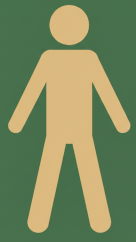
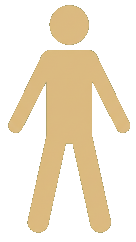
feat: Add hit location visualization system
- Created HitLocationIndicator component with human silhouette
- Made victim-sillhoute.png transparent (removed green background)
- Replaced emoji hit location indicators with visual silhouette
- Shows precise hit location with pulsing red marker
- Enhanced event grouping to merge attack data with kill events
- Kill events now show damage and hit location from preceding attack
- Prominent red marker (18px pulse, 10px dot) with glow effects
- Responsive sizing and hover effects

Display improvements:
- Attack events: Show damage + hit location silhouette
- Kill events: Show damage + hit location from merged attack event
- Complete combat information in one view

diff --git a/rank-forge/rank-forge-ui/src/pages/RoundDetailsPage.tsx b/rank-forge/rank-forge-ui/src/pages/RoundDetailsPage.tsx
@@ -3,6 +3,7 @@ import { useParams, Link } from 'react-router-dom';
 import { PageContainer } from '../components/Layout/PageContainer';
 import { LoadingSpinner } from '../components/Layout/LoadingSpinner';
 import { SpriteIcon } from '../components/UI/SpriteIcon';
+import { HitLocationIndicator } from '../components/UI/HitLocationIndicator';
 import { Tooltip } from '../components/UI/Tooltip';
 import { gamesApi } from '../services/api';
 import { extractSteamId } from '../utils/steamId';
@@ -88,22 +89,7 @@ const getEventColorClass = (eventType: string, details?: RoundEventDTO): string 
   }
 };
 
-const getHitGroupEmoji = (hitGroup: string | undefined): string => {
-  if (!hitGroup) return '👤';
-  
-  const normalized = hitGroup.toLowerCase();
-  
-  if (normalized.includes('head')) return '🎯';
-  if (normalized.includes('chest') || normalized.includes('torso')) return '🫀';
-  if (normalized.includes('stomach') || normalized.includes('belly')) return '🫃';
-  if (normalized.includes('left arm')) return '💪';
-  if (normalized.includes('right arm')) return '💪';
-  if (normalized.includes('left leg')) return '🦵';
-  if (normalized.includes('right leg')) return '🦵';
-  if (normalized.includes('neck')) return '🩸';
-  
-  return '👤'; // Generic body
-};
+// Hit location rendering now handled by HitLocationIndicator component
 
 const formatTimeOffset = (ms: number): string => {
   const seconds = Math.floor(ms / 1000);
@@ -156,31 +142,40 @@ export const RoundDetailsPage = () => {
     );
   };
 
-  // Group assists with their corresponding kills
+  // Group assists and attacks with their corresponding kills
   const groupEventsWithAssists = (events: RoundEventDTO[]) => {
-    const result: Array<{ event: RoundEventDTO; assist?: RoundEventDTO }> = [];
+    const result: Array<{ event: RoundEventDTO; assist?: RoundEventDTO; attack?: RoundEventDTO }> = [];
     const assistMap = new Map<string, RoundEventDTO>();
+    const attackMap = new Map<string, RoundEventDTO>();
     const killTimestamps = new Set<string>();
     
-    // First pass: collect all assists and kill timestamps
+    // First pass: collect all assists, attacks, and kill timestamps
     events.forEach(event => {
       if (event.eventType === 'ASSIST') {
         // Key by victim ID and approximate time to match with kills
         const key = `${event.player2Id}_${Math.floor(event.timeOffsetMs / 100)}`;
         assistMap.set(key, event);
+      } else if (event.eventType === 'ATTACK') {
+        // Store attack events to merge with kills
+        const key = `${event.player2Id}_${Math.floor(event.timeOffsetMs / 100)}`;
+        attackMap.set(key, event);
       } else if (event.eventType === 'KILL') {
         killTimestamps.add(`${event.player2Id}_${Math.floor(event.timeOffsetMs / 100)}`);
       }
     });
     
-    // Second pass: filter out attacks that result in immediate kills, group kills with assists
+    // Second pass: group kills with assists and attacks, filter out merged attacks
     events.forEach(event => {
       if (event.eventType === 'KILL') {
         const key = `${event.player2Id}_${Math.floor(event.timeOffsetMs / 100)}`;
         const assist = assistMap.get(key);
-        result.push({ event, assist });
+        const attack = attackMap.get(key);
+        result.push({ event, assist, attack });
         if (assist) {
           assistMap.delete(key); // Remove matched assist
+        }
+        if (attack) {
+          attackMap.delete(key); // Remove matched attack
         }
       } else if (event.eventType === 'ATTACK') {
         // Check if this attack is followed by an immediate kill (within 100ms)
@@ -286,7 +281,7 @@ export const RoundDetailsPage = () => {
 
         {groupedEvents.length > 0 ? (
           <div className="events-timeline">
-            {groupedEvents.map(({ event, assist }, idx) => (
+            {groupedEvents.map(({ event, assist, attack }, idx) => (
               <div 
                 key={event.id || idx} 
                 className={`event-card ${getEventColorClass(event.eventType, event)}`}
@@ -338,6 +333,11 @@ export const RoundDetailsPage = () => {
                       >
                         {event.player2Name || event.player2Id || 'Unknown'}
                       </Link>
+                      {/* Show hit location from the merged attack event if available */}
+                      {attack && attack.damage && (
+                        <span className="damage-value">-{attack.damage} HP</span>
+                      )}
+                      <HitLocationIndicator hitGroup={attack?.hitGroup || event.hitGroup} size={32} />
                     </div>
                   )}
                   
@@ -389,7 +389,7 @@ export const RoundDetailsPage = () => {
                       {event.damage && (
                         <span className="damage-value">-{event.damage} HP</span>
                       )}
-                      <span className="hit-location-emoji">{getHitGroupEmoji(event.hitGroup)}</span>
+                      <HitLocationIndicator hitGroup={event.hitGroup} size={32} />
                     </div>
                   )}
                 </div>

diff --git a/rank-forge/rank-forge-ui/src/components/UI/HitLocationIndicator.tsx b/rank-forge/rank-forge-ui/src/components/UI/HitLocationIndicator.tsx
@@ -1,0 +1,101 @@
+import React from 'react';
+import './HitLocationIndicator.css';
+
+interface HitLocationIndicatorProps {
+  hitGroup: string | undefined;
+  size?: number; // Size of the silhouette
+  className?: string;
+}
+
+/**
+ * HitLocationIndicator component displays a human silhouette with a marker
+ * indicating where the hit occurred on the body
+ */
+export const HitLocationIndicator: React.FC<HitLocationIndicatorProps> = ({ 
+  hitGroup, 
+  size = 40,
+  className = '' 
+}) => {
+  if (!hitGroup) {
+    return null;
+  }
+
+  // Normalize hit group
+  const normalized = hitGroup.toLowerCase();
+
+  // Map hit groups to approximate positions on the silhouette (as percentages)
+  // Silhouette is 136x242 pixels
+  const getHitPosition = (): { x: number; y: number; label: string } => {
+    if (normalized.includes('head')) {
+      return { x: 50, y: 10, label: 'HEAD' }; // Top center
+    }
+    if (normalized.includes('neck')) {
+      return { x: 50, y: 18, label: 'NECK' }; // Just below head
+    }
+    if (normalized.includes('chest') || normalized.includes('torso')) {
+      return { x: 50, y: 35, label: 'CHEST' }; // Upper center
+    }
+    if (normalized.includes('stomach') || normalized.includes('belly')) {
+      return { x: 50, y: 50, label: 'STOMACH' }; // Mid center
+    }
+    if (normalized.includes('left arm')) {
+      return { x: 25, y: 40, label: 'L.ARM' }; // Left side, mid height
+    }
+    if (normalized.includes('right arm')) {
+      return { x: 75, y: 40, label: 'R.ARM' }; // Right side, mid height
+    }
+    if (normalized.includes('left leg')) {
+      return { x: 40, y: 75, label: 'L.LEG' }; // Left lower
+    }
+    if (normalized.includes('right leg')) {
+      return { x: 60, y: 75, label: 'R.LEG' }; // Right lower
+    }
+    
+    // Default: center torso
+    return { x: 50, y: 40, label: 'BODY' };
+  };
+
+  const hitPosition = getHitPosition();
+  const aspectRatio = 242 / 136; // height / width
+  const width = size;
+  const height = size * aspectRatio;
+
+  return (
+    <div 
+      className={`hit-location-indicator ${className}`}
+      style={{ 
+        width: `${width}px`, 
+        height: `${height}px`,
+        position: 'relative',
+        display: 'inline-block'
+      }}
+    >
+      {/* Human silhouette */}
+      <img 
+        src="/victim-sillhoute.png" 
+        alt="Hit location"
+        className="silhouette-image"
+        style={{ 
+          width: '100%', 
+          height: '100%',
+          objectFit: 'contain'
+        }}
+      />
+      
+      {/* Hit marker */}
+      <div 
+        className="hit-marker"
+        style={{
+          position: 'absolute',
+          left: `${hitPosition.x}%`,
+          top: `${hitPosition.y}%`,
+          transform: 'translate(-50%, -50%)'
+        }}
+        title={hitPosition.label}
+      >
+        <div className="hit-marker-pulse"></div>
+        <div className="hit-marker-dot"></div>
+      </div>
+    </div>
+  );
+};

diff --git a/rank-forge/rank-forge-ui/src/components/UI/HitLocationIndicator.css b/rank-forge/rank-forge-ui/src/components/UI/HitLocationIndicator.css
@@ -1,0 +1,78 @@
+/* Hit Location Indicator Styles */
+
+.hit-location-indicator {
+  vertical-align: middle;
+  filter: drop-shadow(0 2px 4px rgba(0, 0, 0, 0.3));
+}
+
+.silhouette-image {
+  opacity: 0.9;
+}
+
+/* Hit marker container */
+.hit-marker {
+  pointer-events: none;
+  z-index: 2;
+}
+
+/* Pulsing effect */
+.hit-marker-pulse {
+  position: absolute;
+  width: 18px;
+  height: 18px;
+  border-radius: 50%;
+  background: rgba(255, 30, 30, 0.6);
+  top: 50%;
+  left: 50%;
+  transform: translate(-50%, -50%);
+  animation: pulse 1.2s ease-out infinite;
+}
+
+/* Center dot */
+.hit-marker-dot {
+  position: absolute;
+  width: 10px;
+  height: 10px;
+  border-radius: 50%;
+  background: #ff0000;
+  border: 2px solid #fff;
+  top: 50%;
+  left: 50%;
+  transform: translate(-50%, -50%);
+  box-shadow: 0 0 12px rgba(255, 0, 0, 1), 0 0 6px rgba(255, 0, 0, 0.8);
+}
+
+@keyframes pulse {
+  0% {
+    transform: translate(-50%, -50%) scale(1);
+    opacity: 0.8;
+  }
+  100% {
+    transform: translate(-50%, -50%) scale(3);
+    opacity: 0;
+  }
+}
+
+/* Hover effect */
+.hit-location-indicator:hover .silhouette-image {
+  opacity: 1;
+}
+
+.hit-location-indicator:hover .hit-marker-dot {
+  background: #ff0000;
+  box-shadow: 0 0 16px rgba(255, 0, 0, 1), 0 0 8px rgba(255, 0, 0, 1);
+  transform: translate(-50%, -50%) scale(1.2);
+}
+
+/* Responsive sizing */
+@media (max-width: 768px) {
+  .hit-marker-pulse {
+    width: 10px;
+    height: 10px;
+  }
+  
+  .hit-marker-dot {
+    width: 5px;
+    height: 5px;
+  }
+}
